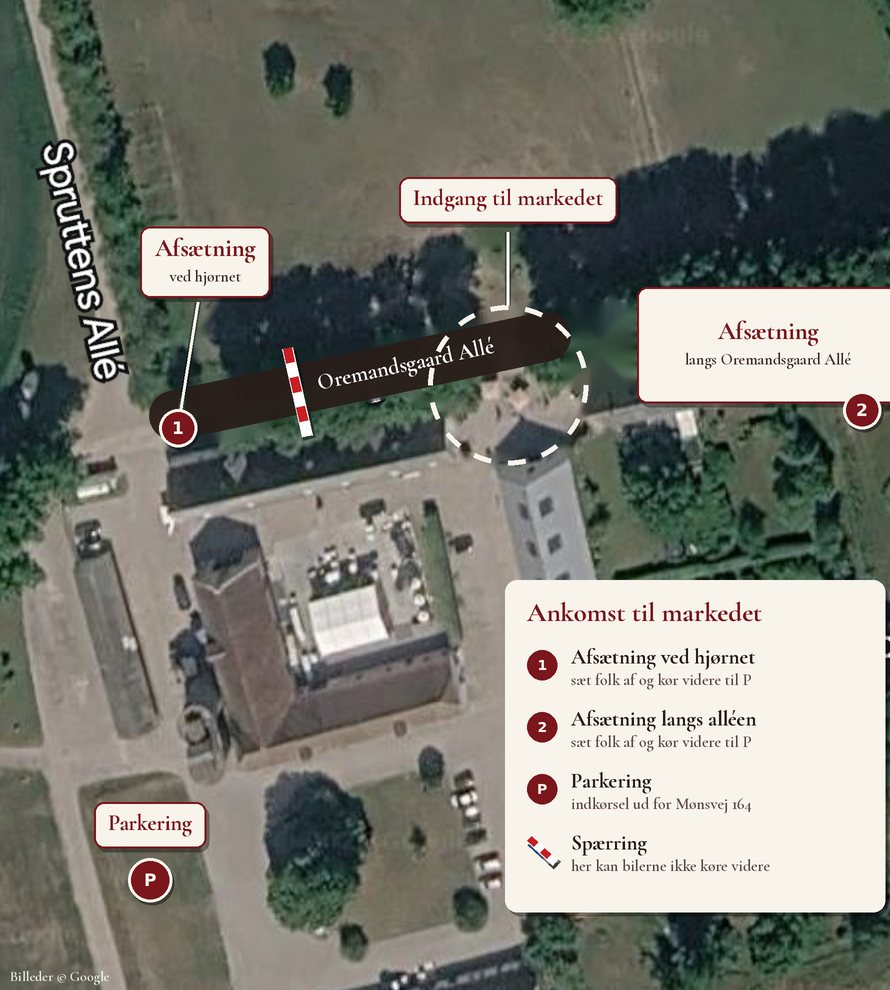
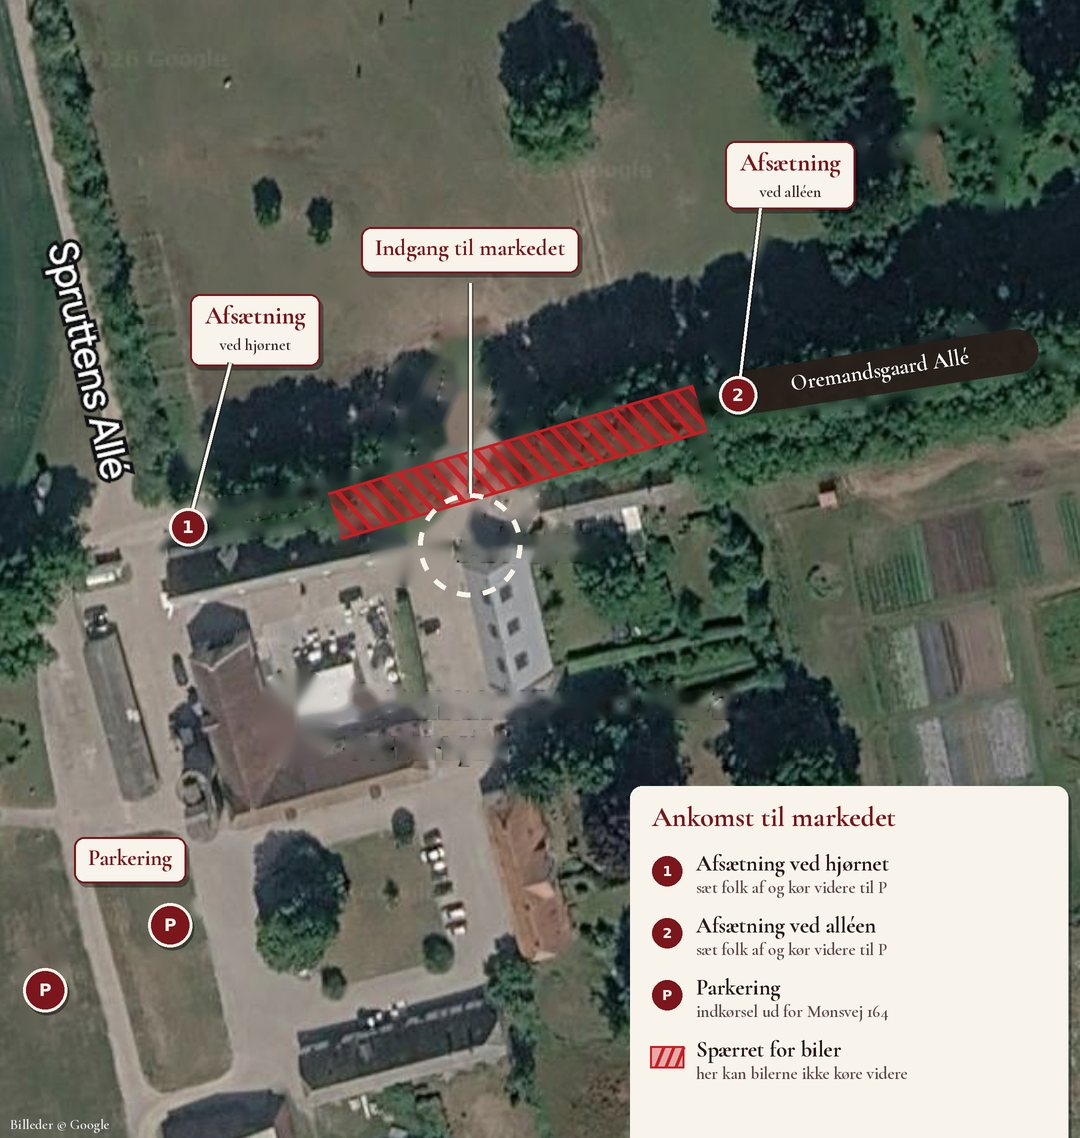
Nyt ankomstkort: to P-pladser, spærret strækning på alléen
Claude-Session: https://claude.ai/code/session_01Gk3Eubtf6vfGg3mRmp6Dxg

diff --git a/index.html b/index.html
@@ -428,7 +428,7 @@ footer p{margin:4px 0}
         <p style="margin-top:10px"><strong>Indkørsel og parkering sker ud for Mønsvej 164</strong> – på den modsatte side af vejen. Følg skiltene til P-pladsen. Kør ikke op til hovedbygningen – den er privat.</p>
         <a class="knap smaa" href="https://www.google.com/maps/search/?api=1&query=M%C3%B8nsvej+164%2C+4720+Pr%C3%A6st%C3%B8" target="_blank" rel="noopener">Vis indkørslen på kort</a>
         <img src="billeder/marked/skilt-indkoersel.jpg" width="700" height="1131" alt="Skilt: Velkommen til Bondemarked – indkørsel og parkering sker fra modsatte side ud for Mønsvej 164" loading="lazy" style="display:block;width:100%;max-width:260px;height:auto;margin-top:18px">
-        <img src="billeder/marked/ankomst-kort.jpg" width="890" height="990" alt="Luftfoto af Oremandsgaard med to afsætningssteder, indgangen til markedet og parkeringen markeret" loading="lazy" style="display:block;width:100%;max-width:520px;height:auto;margin-top:18px;border-radius:6px">
+        <img src="billeder/marked/ankomst-kort.jpg" width="1080" height="1138" alt="Luftfoto af Oremandsgaard med to afsætningssteder, spærret strækning på alléen, indgangen til markedet og parkeringen markeret" loading="lazy" style="display:block;width:100%;max-width:520px;height:auto;margin-top:18px;border-radius:6px">
       </div>
       <div>
         <h3>Hvornår</h3>
